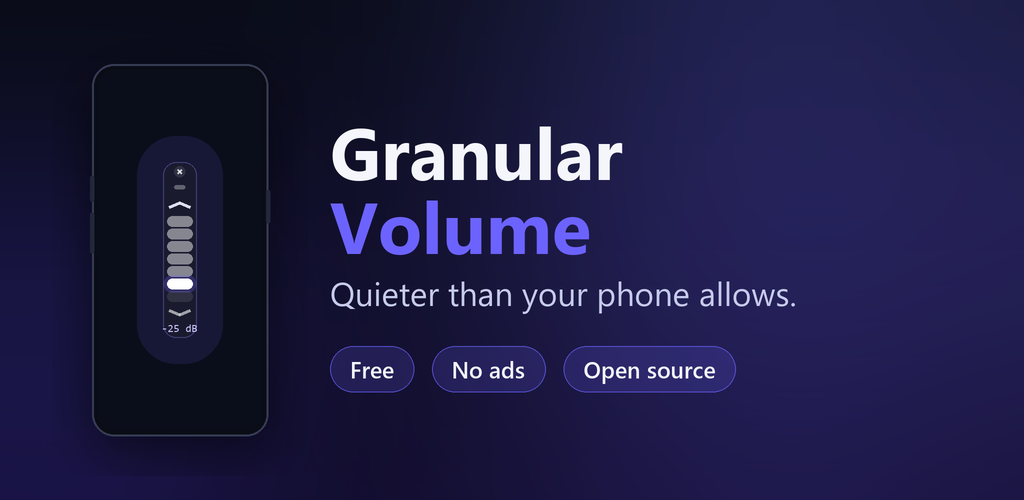
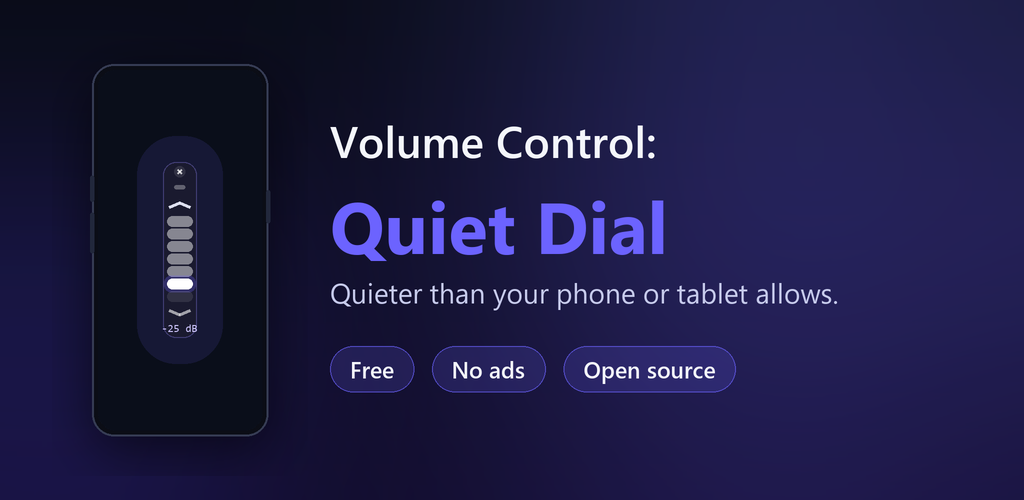
Update feature graphic branding to Volume Control: Quiet Dial

Changed region(s): [[0.3125, 0.39, 0.6562, 0.54], [0.3125, 0.24, 0.6562, 0.36], [0.3125, 0.57, 0.8125, 0.63]]

diff --git a/store-assets/gen_marketing_v4.py b/store-assets/gen_marketing_v4.py
@@ -653,9 +653,9 @@ def make_feature():
     draw_pill(d, ppx, ppy, m, active=5, show_db=True)
     # wordmark + tagline
     tx = s(330)
-    d.text((tx, s(150)), "Granular", font=bold(72), fill=WHITE, anchor="lm")
-    d.text((tx, s(224)), "Volume", font=bold(72), fill=VIOLET, anchor="lm")
-    d.text((tx, s(292)), "Quieter than your phone allows.", font=reg(33), fill=SOFT, anchor="lm")
+    d.text((tx, s(140)), "Volume Control:", font=semi(44), fill=WHITE, anchor="lm")
+    d.text((tx, s(224)), "Quiet Dial", font=bold(72), fill=VIOLET, anchor="lm")
+    d.text((tx, s(292)), "Quieter than your phone or tablet allows.", font=reg(28), fill=SOFT, anchor="lm")
     by = s(346)
     bx = tx
     for badge in ["Free", "No ads", "Open source"]: